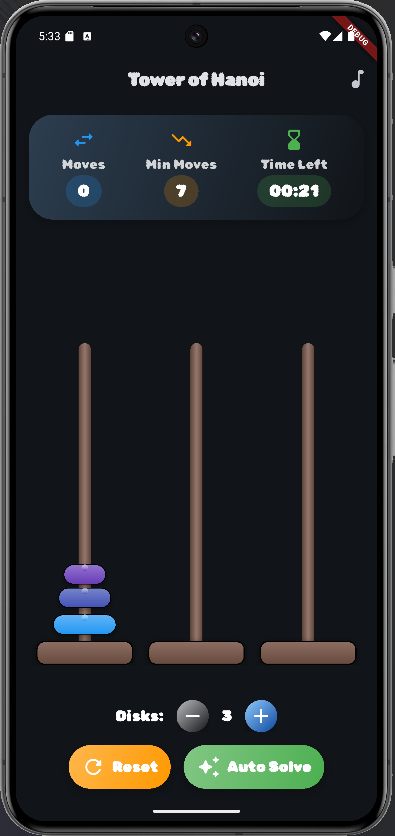
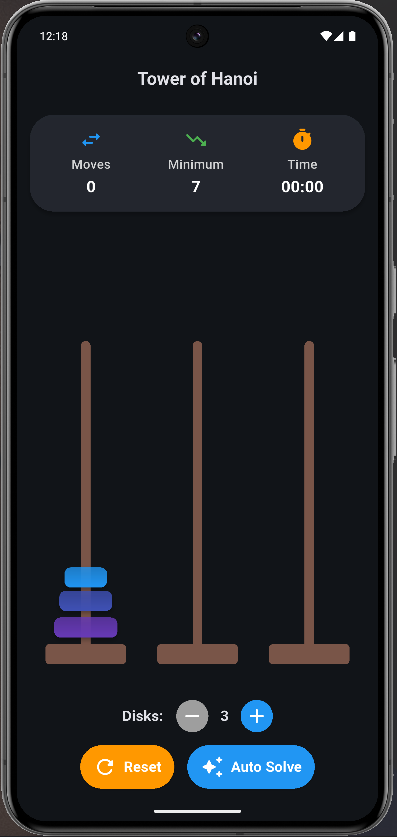
Code optimisations and UI updates...

diff --git a/lib/widgets/custom/action_button.dart b/lib/widgets/custom/action_button.dart
@@ -81,16 +81,21 @@ class _ActionButtonState extends State<ActionButton> {
                   horizontal: 16,
                   vertical: 12,
                 ),
-                child: Row(
-                  mainAxisSize: MainAxisSize.min,
-                  children: [
-                    Icon(widget.icon, size: 30, color: Colors.white),
-                    w8,
-                    Text(
-                      widget.label,
-                      style: Theme.of(context).textTheme.displaySmall,
-                    ),
-                  ],
+                child: SingleChildScrollView(
+                  scrollDirection: Axis.horizontal,
+                  physics: const NeverScrollableScrollPhysics(),
+                  child: Row(
+                    mainAxisSize: MainAxisSize.min,
+                    mainAxisAlignment: MainAxisAlignment.center,
+                    children: [
+                      Icon(widget.icon, size: 30, color: Colors.white),
+                      w8,
+                      Text(
+                        widget.label,
+                        style: Theme.of(context).textTheme.displaySmall,
+                      ),
+                    ],
+                  ),
                 ),
               ),
             ),

diff --git a/lib/widgets/stats_panel.dart b/lib/widgets/stats_panel.dart
@@ -99,7 +99,9 @@ class _StatsPanelState extends ConsumerState<StatsPanel> {
           ),
         ],
       ),
-      child: Padding(
+      child: SingleChildScrollView(
+        scrollDirection: Axis.horizontal,
+        physics: BouncingScrollPhysics(),
         padding: const EdgeInsets.all(16),
         child: Row(
           mainAxisAlignment: MainAxisAlignment.spaceAround,
